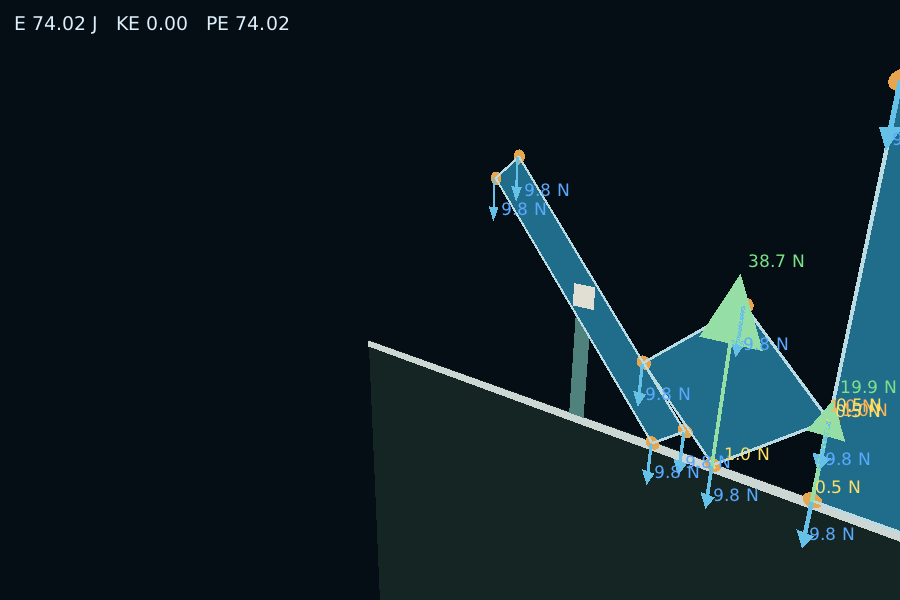
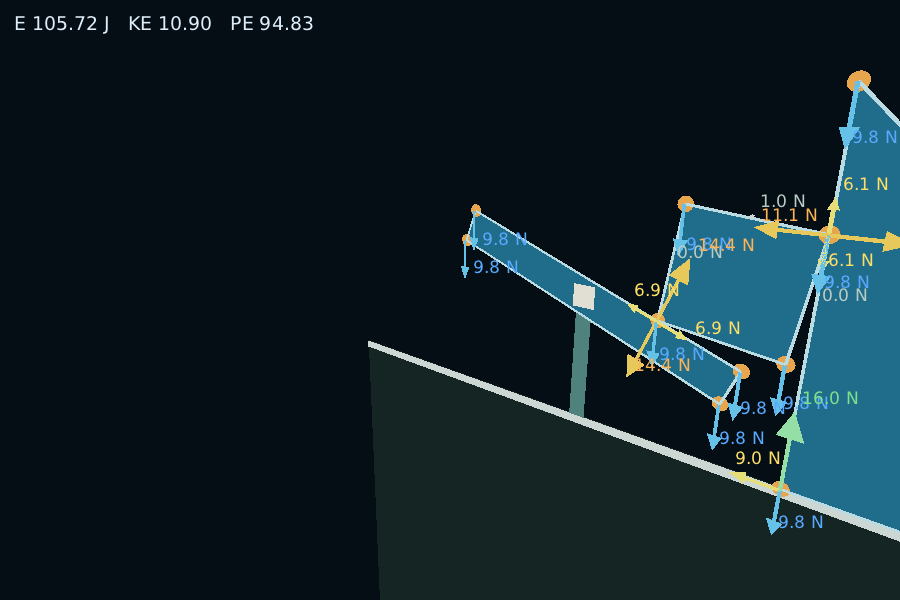
The seesaw caught part-way down, and where it ends up

Changed region(s): [[0.4978, 0.09, 1.0, 0.9], [0.0311, 0.03, 0.3422, 0.06]]

diff --git a/scratch/seesaw-shot.cpp b/scratch/seesaw-shot.cpp
@@ -98,11 +98,11 @@ int main() {
     c.previous = c.position;
     c.previousCentre = c.centre;
     c.previousAngle = c.angle;
-    for (int i = 0; i < 60; ++i) room.advance(1.0 / 20.0);
-    report(room, 60);
+    for (int i = 0; i < 9; ++i) room.advance(1.0 / 20.0);
+    report(room, 9);
     shoot(room, cam, "scratch/seesaw-loaded.png");
     for (int i = 0; i < 600; ++i) room.advance(1.0 / 20.0);
-    report(room, 660);
+    report(room, 609);
     shoot(room, cam, "scratch/seesaw-rested.png");
     return 0;
 }
